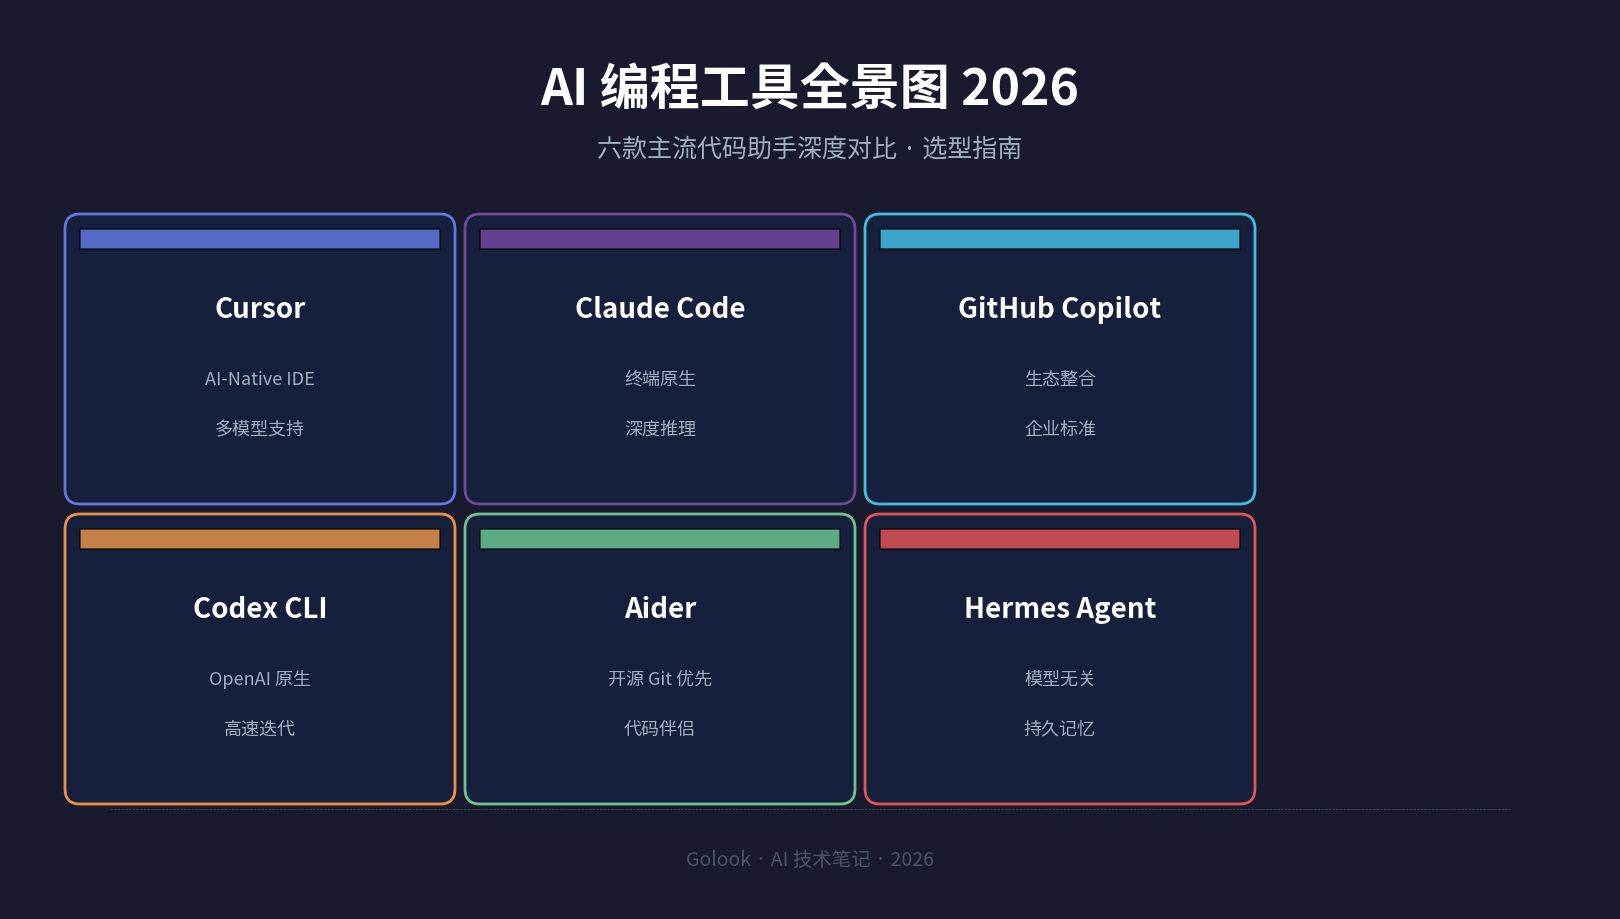
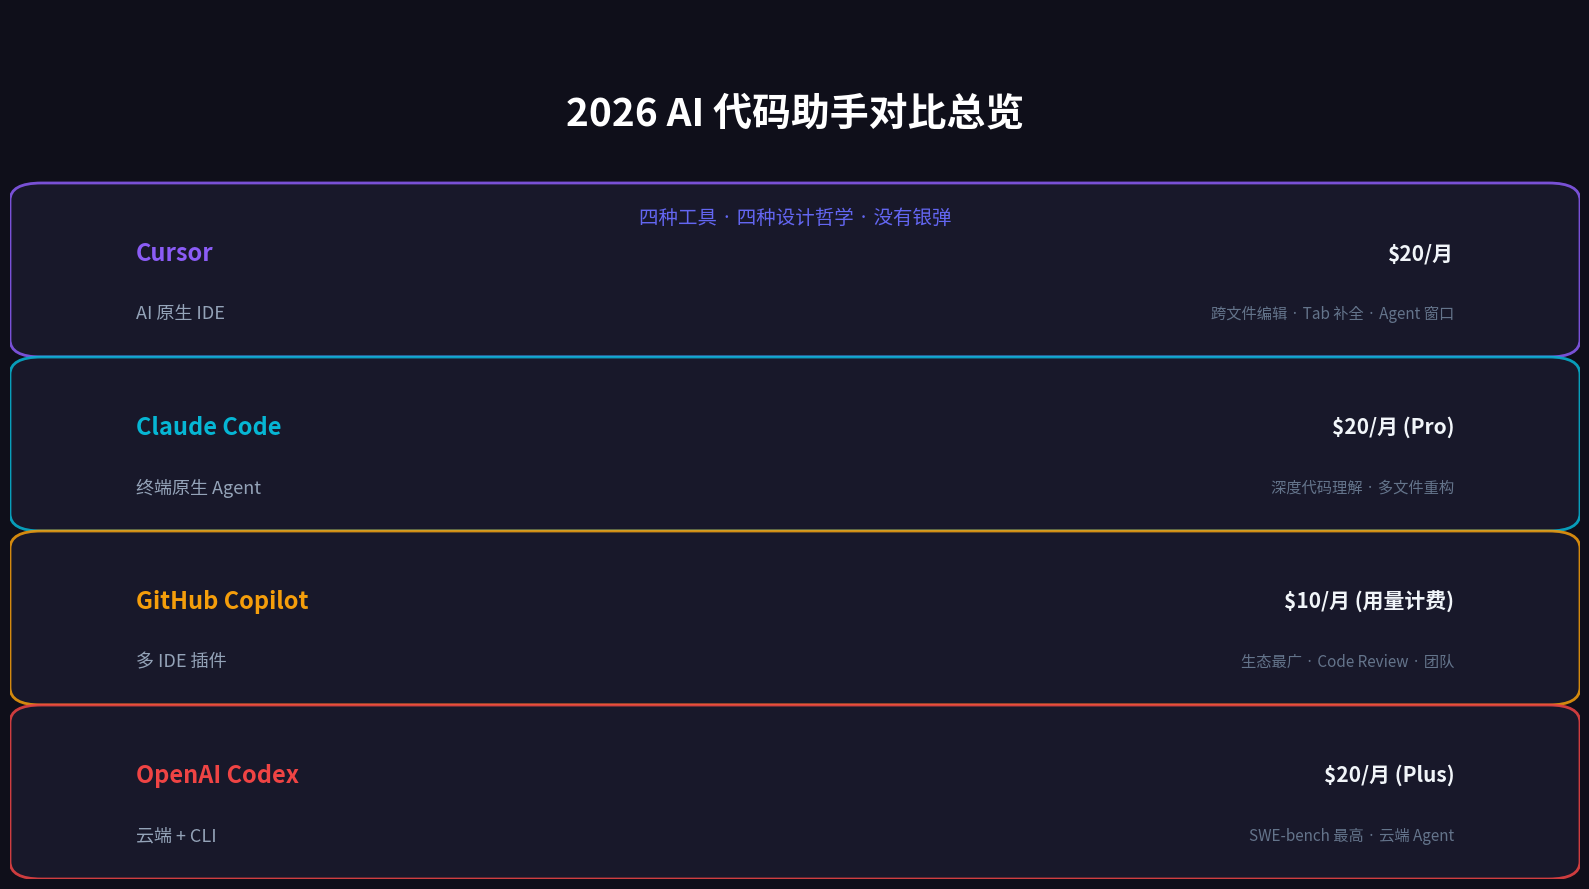
Add: AI 代码助手全面对比：2026 年该选哪一个？

diff --git a/source/_posts/2026-ai-coding-tools-deep-comparison.md b/source/_posts/2026-ai-coding-tools-deep-comparison.md
@@ -1,0 +1,163 @@
+---
+title: AI 代码助手全面对比：2026 年该选哪一个？
+date: 2026-07-28
+tags: [AI, 代码助手, 对比评测, Cursor, Claude Code, GitHub Copilot, Codex, 开发效率]
+categories: AI 工具对比
+---
+
+如果你每天写代码，大概率已经用过甚至同时订阅了多种 AI 代码助手。但 2026 年的格局变化太快——GitHub Copilot 在 6 月改成用量计费、OpenAI 推出 $100/月的 Codex Pro 5x 直接对标 Claude、Cursor 从免费 IDE 变成了积分制付费——旧的对比文章已经严重过时。
+
+这篇文章基于 2026 年 4–7 月的真实数据（SWE-bench 基准测试、官方定价页、社区反馈），对 Cursor、Claude Code、GitHub Copilot 和 OpenAI Codex 四个主流工具做一次实战级对比，帮你判断该把预算押在哪一个上。
+
+![AI 代码助手对比总览](/images/ai-coding-tools-overview-2026.png)
+
+## 一、先看硬指标：SWE-bench 基准测试
+
+SWE-bench 是目前最权威的 AI 代码能力评测，要求 Agent 在真实开源仓库中定位并修复 GitHub Issue。数据截至 2026 年 4 月：
+
+| 工具 | 底层模型 | SWE-bench Verified | 备注 |
+|------|---------|--------------------|------|
+| OpenAI Codex | GPT-5.3-Codex | **85.0%** | 类别最高，SWE-bench Pro 56.8%，Terminal-Bench 77.3% |
+| Claude Code | Claude Opus 4.6 | **80.8%** | 多文件编辑能力最强，SWE-bench Pro 64.3% |
+| GitHub Copilot | 多模型路由 (GPT-4.1 / Claude / o3) | ~55–56% | 官方未公布详细分榜 |
+| Cursor | 多模型路由（随用户选择变化） | ~48–52% | 取决于所选底层模型 |
+
+数据来源：SWE-bench 官方榜单、The Pragmatic Engineer 2026 年 2 月开发者调查（46% 的资深工程师将 Claude Code 列为"最爱工具"）。
+
+**关键结论**：在纯"代码能力"维度，Codex 和 Claude Code 明显领先，而 Copilot 和 Cursor 的能力高度依赖用户选择的底层模型——你选 Opus，它们就强；选 Sonnet，就弱。
+
+## 二、四款工具的定位差异
+
+它们看似都在做"AI 写代码"，但设计哲学完全不同：
+
+### 1. Cursor：AI 原生 IDE
+
+Cursor 是一个完整的代码编辑器（VS Code 派生），代码生成和 Agent 能力被深度嵌入编辑体验中。
+
+- **核心优势**：Composer 模式支持跨文件编辑和重构，Agent 窗口可驱动端到端任务；Tab 自动补全采用 Supermaven 模型，接受率据称达 72%。
+- **局限**：必须放弃原有编辑器（VS Code / JetBrains），迁移成本不可忽视。
+- **最佳场景**：从零开始构建新项目，或愿意换编辑器换取更顺畅的 AI 体验的开发者。
+
+### 2. Claude Code：终端原生 Agent
+
+Claude Code 是一个命令行工具，在终端里启动后自主读取代码库、编辑文件、执行命令，全程在 Terminal 中完成。
+
+- **核心优势**：深度代码库理解能力最强，多文件同步修改能力突出；JetBrains 2026 年 1 月调研显示其 CSAT 为 91%、NPS 为 54，均为同类最高。
+- **局限**：没有 IDE 集成，没有 Tab 补全，交互方式与传统编辑器差异大。
+- **最佳场景**：大型代码库重构、复杂多文件修改、偏好终端操作的开发者。
+
+**值得注意的数据**：据 SaaStr 2026 年 2 月报道，约有 **4% 的 GitHub 公开提交**已由 Claude Code 完成，预计年底前升至 20%+。Anthropic 内部，Claude Code 从副业项目到公司最大收入线的转变只用了不到 9 个月。
+
+### 3. GitHub Copilot：多 IDE 插件
+
+Copilot 是一个插件，可以在 VS Code、JetBrains 等任何 IDE 中工作，同时深度集成 GitHub 的 PR、Actions 等工作流。
+
+- **核心优势**：生态覆盖面最广，团队管理和 Code Review 功能完善，对 VS Code / JetBrains 用户的迁移成本为零。
+- **局限**：Agent 和 Chat 功能依赖底层模型选择，能力上限受制于此。
+- **最佳场景**：已在 GitHub 生态中工作的团队，不想更换编辑器。
+
+### 4. OpenAI Codex：云端 + CLI 双形态
+
+Codex 同时以 ChatGPT 网页（云端 Cloud Agents）和 CLI 工具两种形态存在，与 GPT-5.3-Codex 深度绑定。
+
+- **核心优势**：SWE-bench 分数最高，异步云端 Agent 适合长时间复杂任务；CLI 可在本地独立运行。
+- **局限**：深度绑定 OpenAI 生态；云端任务有容器费用叠加。
+- **最佳场景**：ChatGPT 重度用户、需要异步复杂任务的场景。
+
+![SWE-bench 基准测试对比](/images/ai-coding-swe-bench-comparison-2026.png)
+
+## 三、2026 年定价对比（最关键的实战维度）
+
+2026 年各家定价变动剧烈，**"月费"这个数字已经不能代表实际成本了**。
+
+### 1. GitHub Copilot：2026 年 6 月改用用量计费
+
+GitHub 于 2026 年 6 月 1 日将 Copilot 的 Chat/Agent/Code Review 改为按 **AI Credits** 用量计费（1 credit = $0.01），基础月费不变：
+
+| 套餐 | 月费 | 每月 AI Credits | 备注 |
+|------|------|----------------|------|
+| Free | $0 | 有限配额 | 代码补全可用 |
+| Pro | $10 | $10 | 入门个人开发者 |
+| Pro+ | $39 | $39 | 重度用户 |
+| Max | $100 | $100 | 专业开发者 |
+| Business | $19/人 | $19/人 | 团队 |
+| Enterprise | $39/人 | $39/人 | 企业 |
+
+⚠ **关键变化**：补全和 Next Edit 建议**不限额且不计费**，但 Chat、Agent Mode、Copilot CLI、Cloud Agents、Spaces、Spark、Code Review **全部消耗 Credits**。社区反馈 6 月启用后，一个简单多文件修改任务就可能消耗数美分的 Credits，重度使用者报告单月实际费用远超月费。**实际总成本 = 月费 + 用量费**，且用量费高度不可预测。
+
+### 2. Cursor：积分制，基础无限
+
+| 套餐 | 月费 | 备注 |
+|------|------|------|
+| Hobby | 免费 | 有限 Agent 和 Tab 配额 |
+| Pro | $20 | 最受欢迎档，含 $20 积分池 |
+| Pro+ | $60 | 3× Pro 用量，重度 Agent 用户推荐 |
+| Ultra | $200 | 20× Pro 用量 |
+| Teams Standard | $40/人 | 团队功能 |
+| Teams Premium | $120/人 | 5× Standard 用量 |
+
+⚠ **关键机制**：Auto 模式和 Tab 补全在所有付费档**无限使用**。积分仅在手动选择第三方前沿模型（Claude Sonnet、GPT-4 等）时消耗，且 Cursor 提供了两个独立积分池（自有模型 + 第三方 API 模型），实际用量比账面值宽裕。年付可省约 20%。
+
+### 3. Claude Code：随 Claude 订阅
+
+| 套餐 | 月费 | Claude Code | 上下文窗口 |
+|------|------|-------------|-----------|
+| Free | $0 | ❌ | 200K tokens |
+| Pro | $20（年付 $17） | ✅ | 200K tokens |
+| Max 5x | $100 | ✅ | 500K tokens |
+| Team Standard | $25/人（年付） | ❌ | — |
+| Team Premium | $150/人 | ✅ | — |
+
+⚠ **关键机制**：Claude Code 包含在 Pro/Max 套餐中，但**按 token 用量计费**。在团队档中，只有 Premium（$150/人）才包含 Claude Code 访问权。Anthropic 的策略是降低单 token 价格但增加总用量——模型更便宜，但 Agent 工作流吃得更多。
+
+### 4. OpenAI Codex：ChatGPT 套餐捆绑
+
+| 套餐 | 月费 | Codex 用量 | 备注 |
+|------|------|-----------|------|
+| Free | $0 | 有限 | — |
+| Go | $8 | — | — |
+| Plus | $20 | 基准用量 | 10–60 云端任务/5h 窗口 |
+| Pro 5x | $100 | 5× Plus | 2026 年 4 月上线，对标 Claude Code |
+| Pro 20x | $200 | 20× Plus | 重度用户 |
+
+⚠ **关键机制**：Plus 档 5 小时滚动窗口的基准量按 GPT-5.4 推理大约仅支持 40 分钟持续使用，很多开发者反馈 2026 年 4 月配额更新后限制更加收紧。Pro 5x 在 5 月 31 日前有促销活动，实际提供 10× 而非 5× 配额。云端任务还有容器费叠加。
+
+## 四、2026 年的选型决策树
+
+基于以上数据，我给出以下决策建议：
+
+### 选 Cursor，如果你：
+- 愿意换一个编辑器，换取最流畅的 AI 编辑体验
+- 主要工作是增量开发，补全 + Agent 混合使用
+- 喜欢"所见即所得"的 IDE 集成式交互
+
+### 选 Claude Code，如果你：
+- 需要**最深度的代码库理解和多文件重构能力**
+- 习惯在终端里工作
+- 看重 Agent 的自主执行能力而非 Tab 补全
+
+### 选 GitHub Copilot，如果你：
+- 已在 VS Code / JetBrains 中工作，不想换编辑器
+- 团队重度使用 GitHub PR 和 Code Review
+- 希望企业级支持和治理
+
+⚠ **2026 年重要提醒**：Copilot 的用量计费模式已引发社区大量不满。如果你预计重度使用 Agent 和 Chat，实际月成本可能远高于 $10–$39。多家第三方评测建议，重度用户的实际月成本在 $50–$200+ 区间，且不可预测。
+
+### 选 OpenAI Codex，如果你：
+- 是 ChatGPT 重度用户，想要一致的体验
+- 需要异步云端 Agent 处理长时复杂任务
+- 偏好 OpenAI 模型生态
+
+![AI 代码助手定价对比](/images/ai-coding-pricing-comparison-2026.png)
+
+### 最佳实践：组合使用
+
+社区中最受欢迎的方案不是"二选一"，而是**2–3 个工具的组合**：
+
+- **Cursor** 做日常编码和补全
+- **Claude Code** 做复杂多文件重构
+- **Copilot / Codex** 按需用于 Code Review 或云端异步任务
+
+2026 年的核心洞察是：**没有一款工具在所有场景下最优**。选哪个取决于你的工作流、编辑器偏好、预算上限以及对"用量不可预测性"的容忍度。建议先试用各自的免费版或低价档，用 1–2 周观察实际成本曲线，再决定订阅哪一档。
+
+> **参考来源**：SWE-bench 官方榜单 (swebench.com)、The Pragmatic Engineer 2026 年 2 月开发者调查、JetBrains 2026 年 1 月开发者满意度报告、GitHub 官方 Copilot 计费变更公告 (2026 年 6 月)、OpenAI Codex 定价页面、Anthropic Claude 定价页面、CloudZero / FlexPrice / Eszel 等第三方定价分析。
